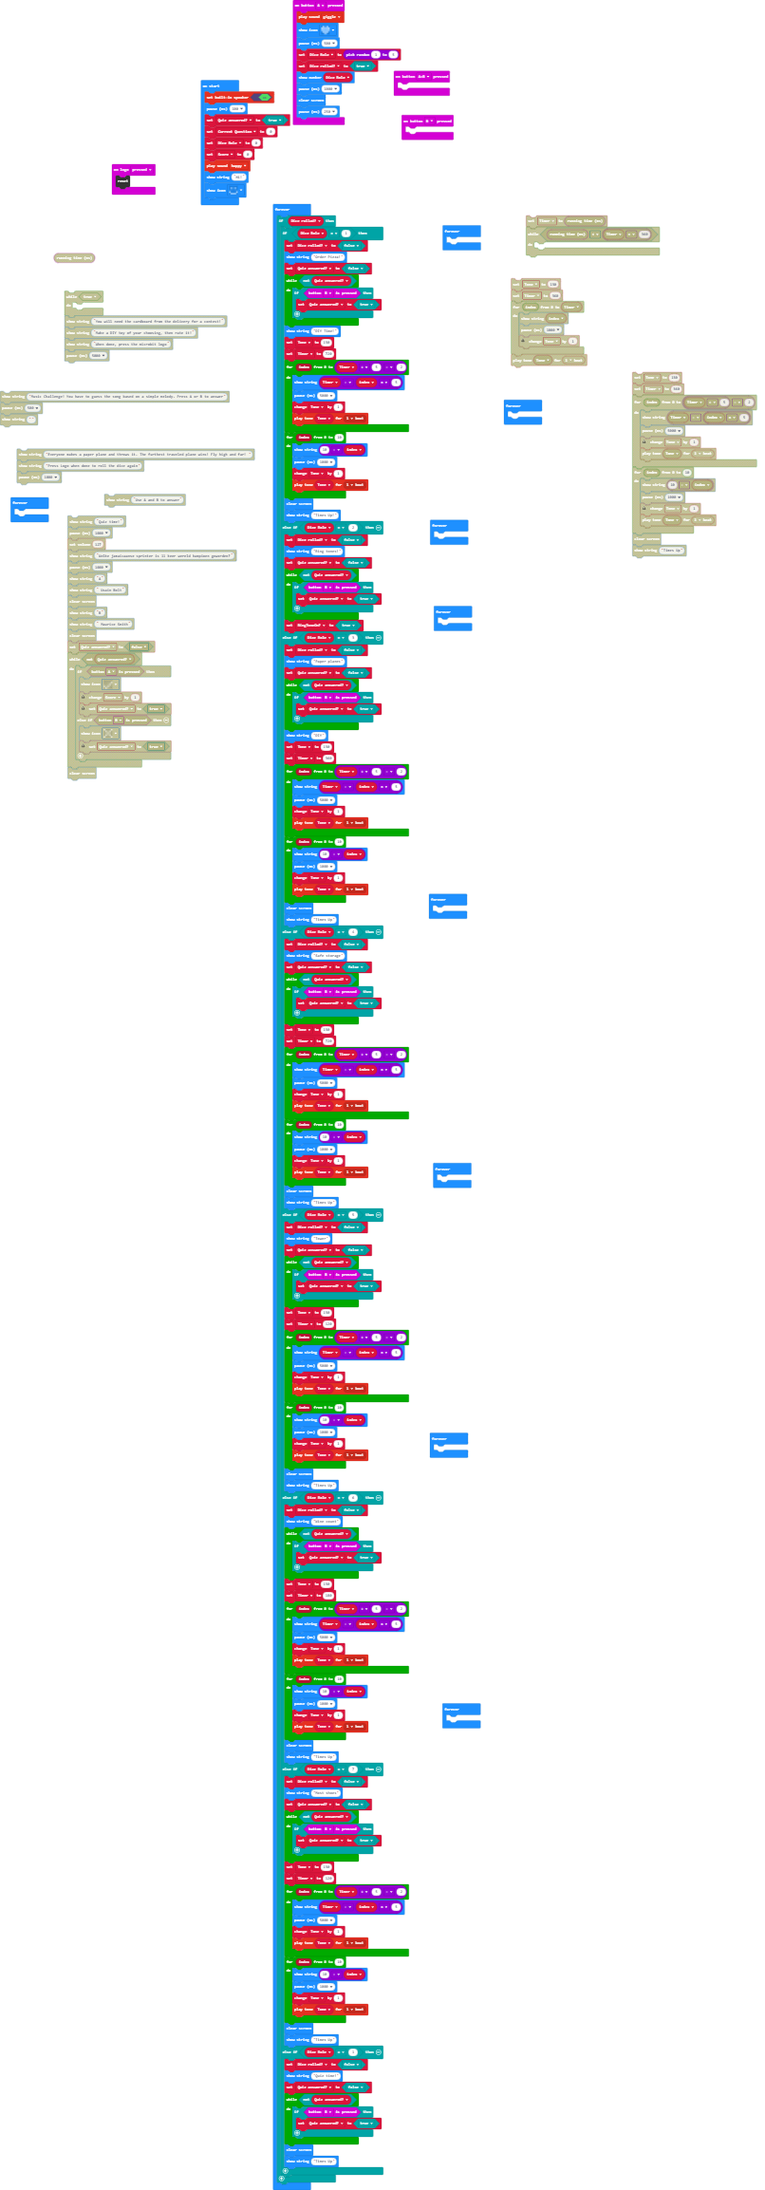
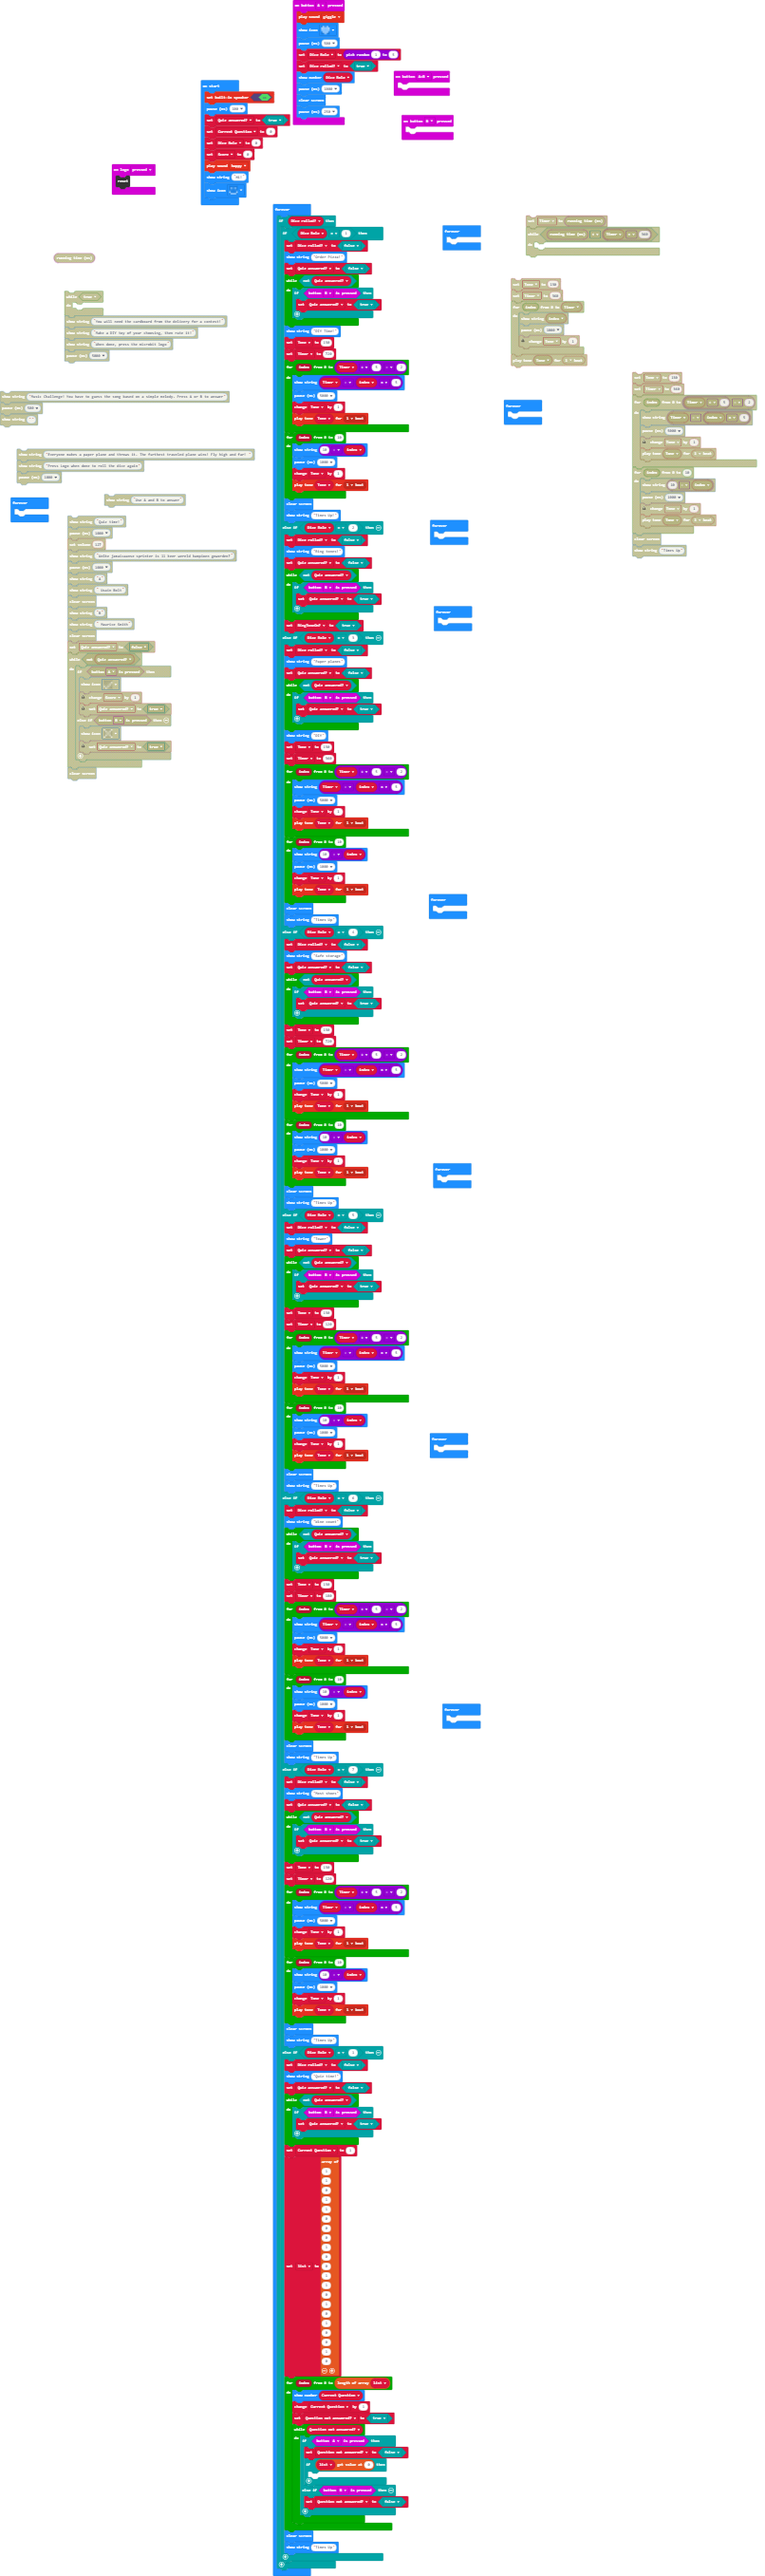
Update main.blocks, main.ts

diff --git a/main.ts b/main.ts
@@ -18,6 +18,8 @@ input.onButtonPressed(Button.B, function () {
 input.onLogoEvent(TouchButtonEvent.Pressed, function () {
     control.reset()
 })
+let Question_not_answered = false
+let list: number[] = []
 let RingToneOn = false
 let Timer = 0
 let Tone = 0
@@ -202,6 +204,23 @@ basic.forever(function () {
             while (!(Quiz_answered)) {
                 if (input.buttonIsPressed(Button.B)) {
                     Quiz_answered = true
+                }
+            }
+            Current_Question = 1
+            list = [1, 1, 0, 1, 1, 0, 0, 0, 1, 0, 0, 1, 1, 0, 1, 0, 1, 0, 0, 1, 0]
+            for (let index = 0; index <= list.length; index++) {
+                basic.showNumber(Current_Question)
+                Current_Question += 1
+                Question_not_answered = true
+                while (Question_not_answered) {
+                    if (input.buttonIsPressed(Button.A)) {
+                        Question_not_answered = false
+                        if (list[0]) {
+                        	
+                        }
+                    } else if (input.buttonIsPressed(Button.B)) {
+                        Question_not_answered = false
+                    }
                 }
             }
             basic.clearScreen()
